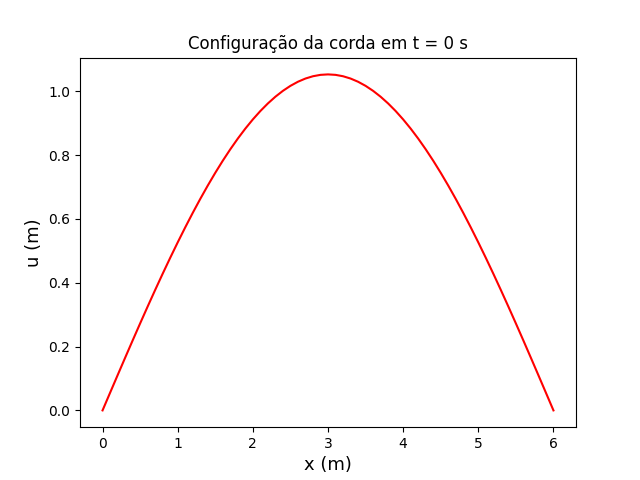
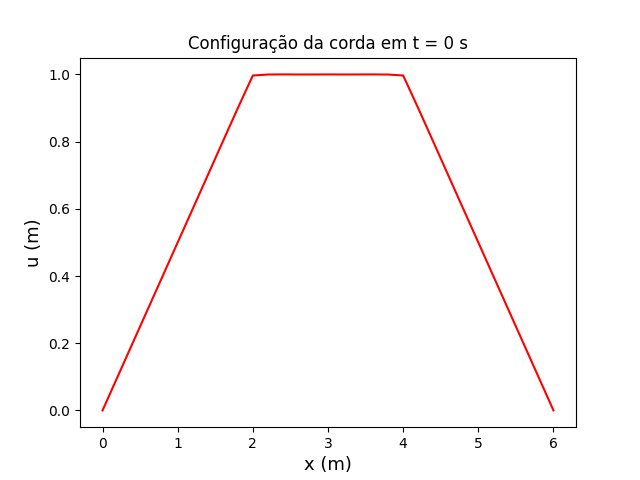
Atualização

diff --git a/Wave-equation-V2/python-wave_solver.py b/Wave-equation-V2/python-wave_solver.py
@@ -9,8 +9,8 @@ beta = 0.1                        # coeficiente de amortecimento
 L = 6                           # comprimento total da corda
 ti = 0.0                          # tempo inicial da simulação
 tf = int(24.0)                    # tempo final da simulação
-N = 3                             # número de elementos na série de Fourier
-dx = 0.1                         # intervalo em x
+N = 100                             # número de elementos na série de Fourier
+dx = 0.2                         # intervalo em x
 dt = 0.25                          # passo de tempo
 npoints  = int(L/dx + 1)          # número de pontos de avaliação de x
 nsteps = int((tf - ti) / dt)      # número de passos de tempo
@@ -62,7 +62,7 @@ def int_trapz(a, b, n) :
     return res
 
 def coef_an(n) :
-    return (2/L)*int_trapz(0, L, n)
+    return (2/L)*(int_trapz(0, 2, n) + int_trapz(2, 4, n) + int_trapz(4, 6, n))
 
 def solver() :
     i = 0
@@ -94,7 +94,7 @@ print(T[1, :])
 plotfxy(X, T[0, :])
 
 fig = plt.figure()
-plt.title("Solução da equação da onda (N=3)")
+plt.title("Solução da equação da onda (N=100)")
 plt.xlabel("Comprimento (m)", fontsize = 11)
 plt.ylabel("Deslocamento (m)", fontsize = 11)
 ax = plt.axes(xlim=(0, 6), ylim=(-1.5, 1.5))
